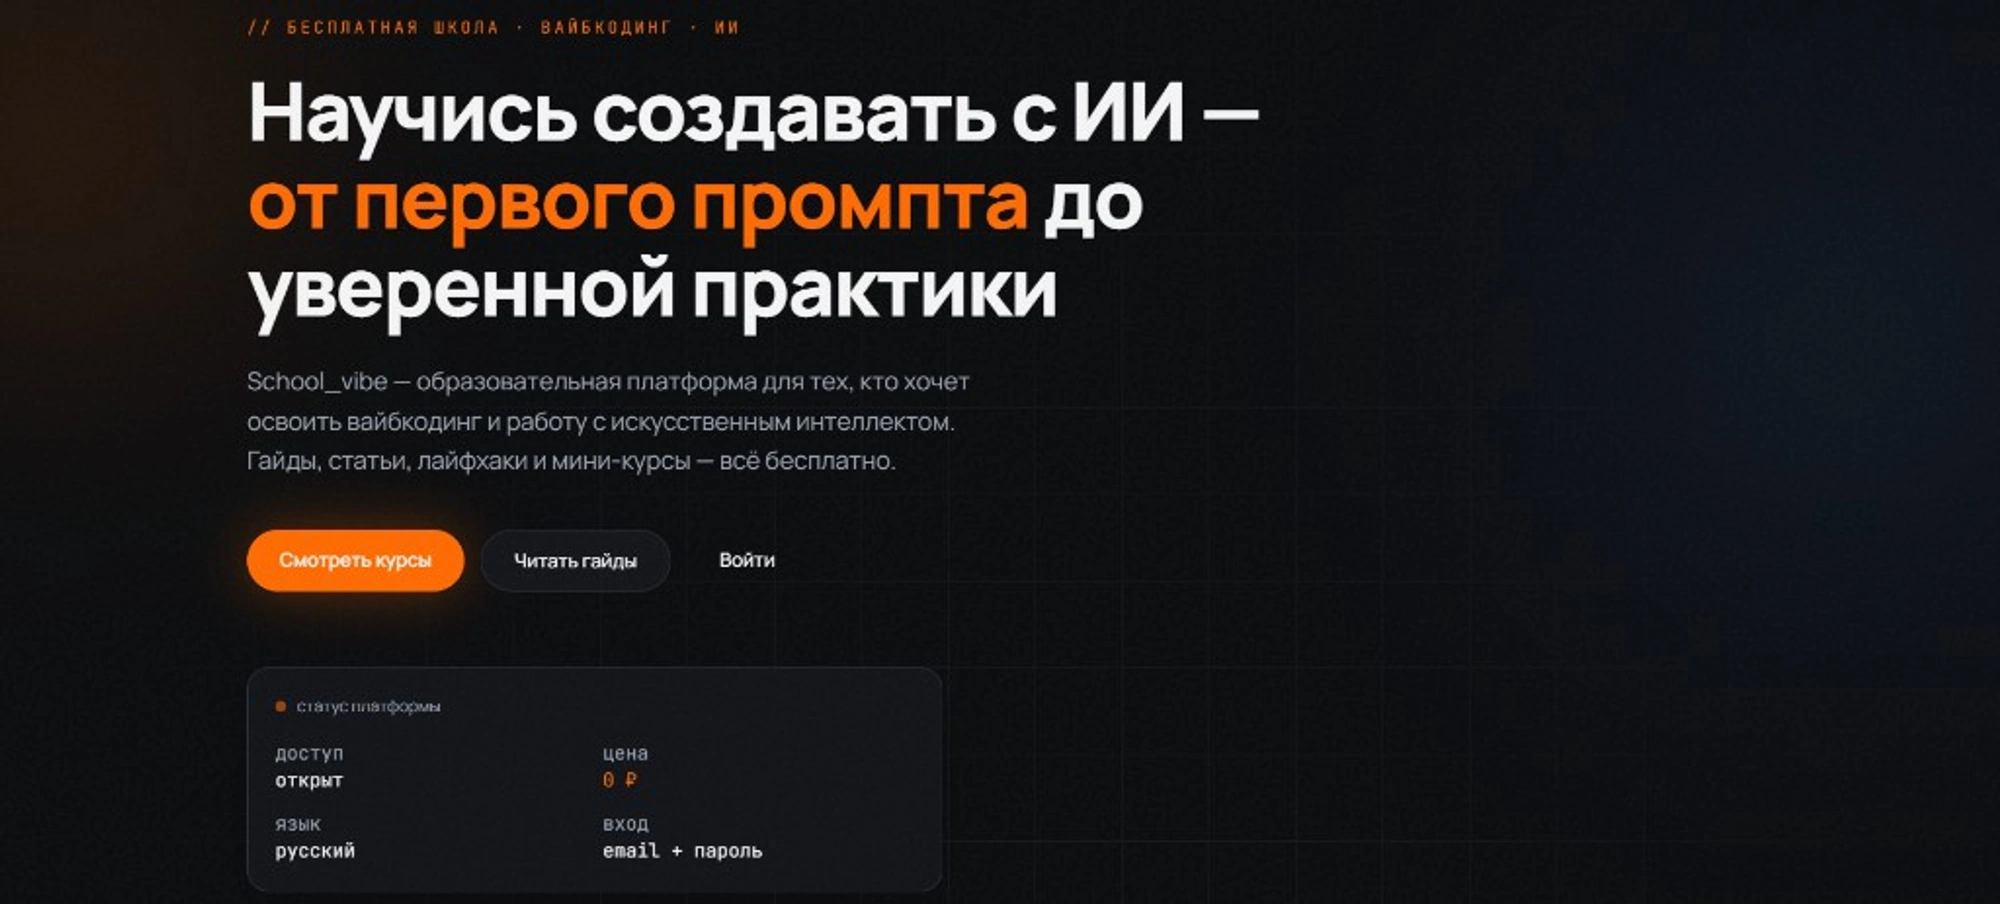
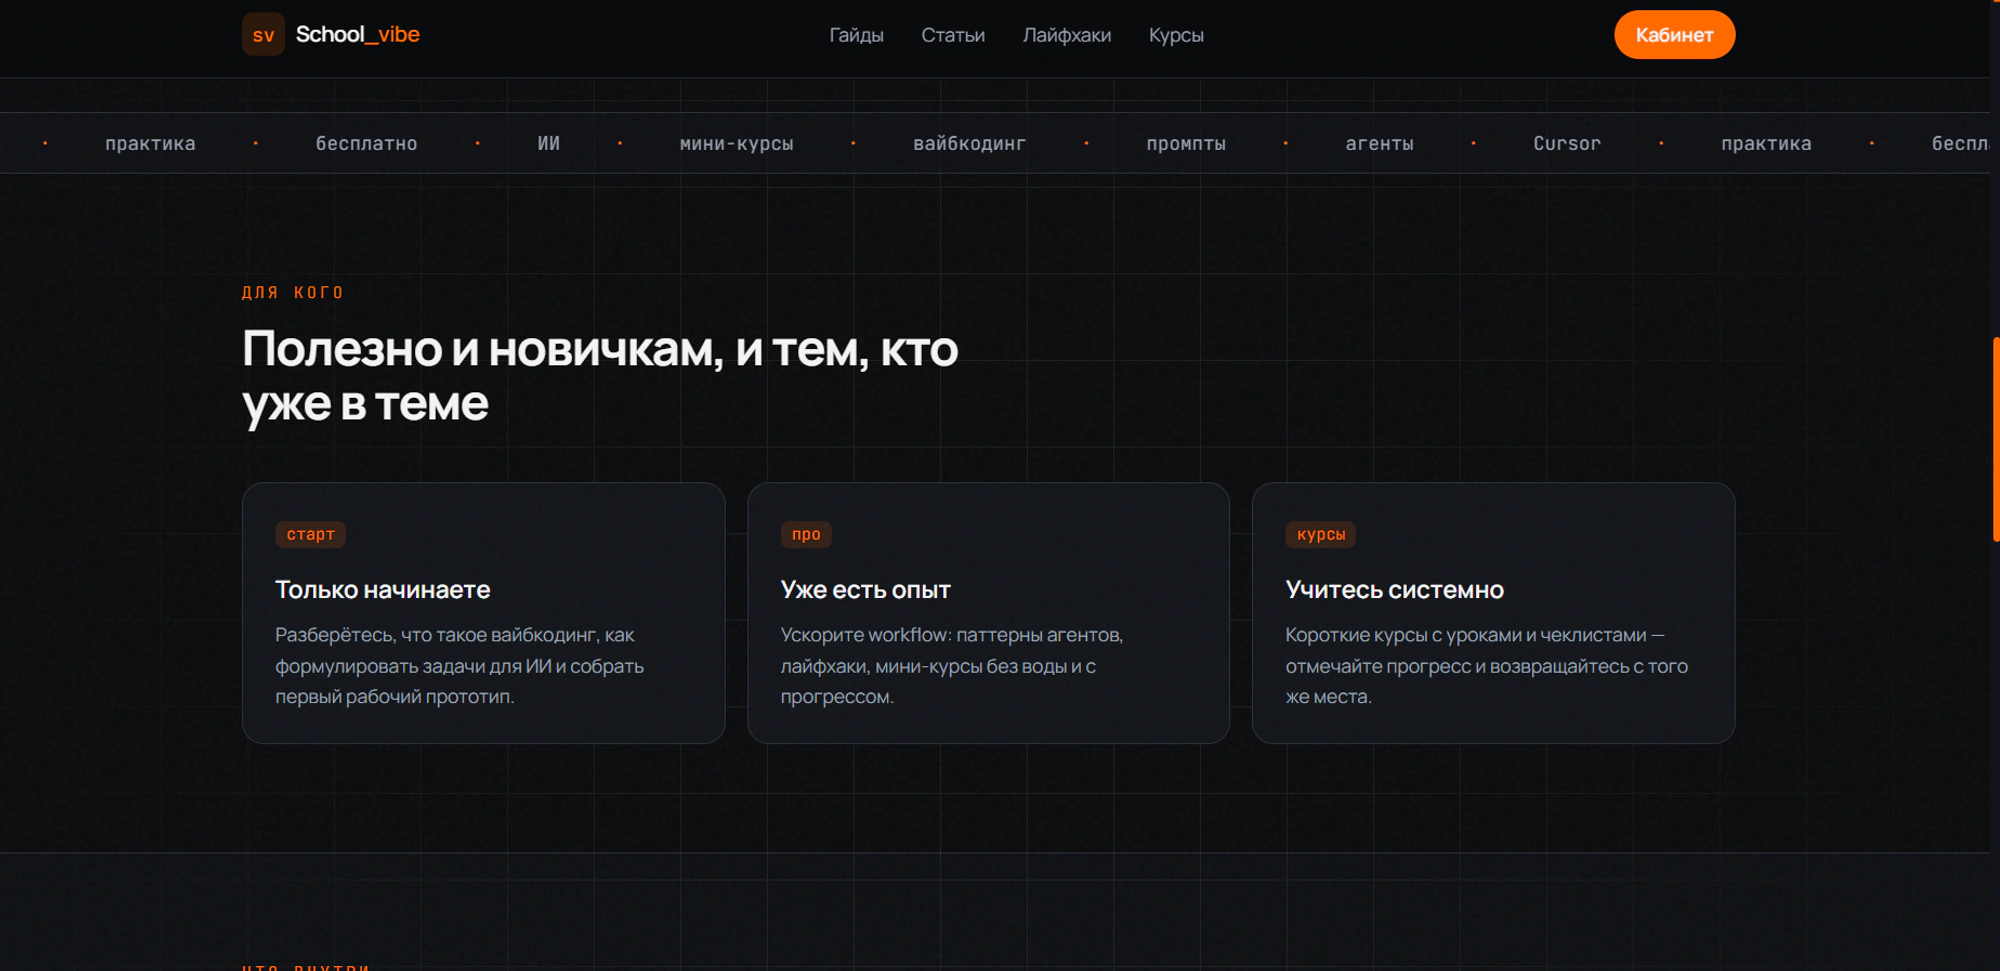
Refresh portfolio screens and add School_vibe live link.
Replace placeholder galleries with real case screens, drop fake mobile shots, and open vibelogic.bond from the AI courses case.

diff --git a/src/content/portfolio.ts b/src/content/portfolio.ts
@@ -25,7 +25,7 @@ export const PORTFOLIO: PortfolioWork[] = [
   {
     slug: "ai-education-platform",
     kind: "commercial",
-    badge: "Коммерческий проект",
+    badge: "Коммерческий проект · Live",
     title: "Платформа курсов по ИИ",
     description:
       "Образовательная платформа для обучения работе с искусственным интеллектом. Полный цикл: структура, дизайн, адаптивная разработка и запуск.",
@@ -41,16 +41,22 @@ export const PORTFOLIO: PortfolioWork[] = [
         height: 904,
       },
       {
-        src: "/works/ai-education-platform/cover.png",
-        alt: "Обзор интерфейса платформы курсов по ИИ",
+        src: "/works/ai-education-platform/desktop-02.webp",
+        alt: "Блок «Для кого» платформы School_vibe",
         width: 2000,
-        height: 904,
+        height: 971,
       },
       {
-        src: "/works/ai-education-platform/mobile-01.webp",
-        alt: "Мобильный вид платформы курсов по ИИ",
-        width: 900,
-        height: 1200,
+        src: "/works/ai-education-platform/desktop-03.webp",
+        alt: "Блок «Как это работает» платформы School_vibe",
+        width: 2000,
+        height: 973,
+      },
+      {
+        src: "/works/ai-education-platform/desktop-04.webp",
+        alt: "Страница модуля курса School_vibe",
+        width: 2000,
+        height: 988,
       },
     ],
     task:
@@ -66,6 +72,8 @@ export const PORTFOLIO: PortfolioWork[] = [
     seoTitle: "Платформа курсов по ИИ — кейс NKT Studio",
     seoDescription:
       "Коммерческий проект: образовательная платформа курсов по ИИ. Полный цикл — структура, дизайн, разработка и запуск за 10 дней.",
+    liveUrl: "https://vibelogic.bond/",
+    liveLabel: "Открыть сайт",
   },
   {
     slug: "sova-cafe",
@@ -76,8 +84,8 @@ export const PORTFOLIO: PortfolioWork[] = [
       "Сайт кафе в парке Мазурино: меню, бронирование стола, пицца из печи и заявки на мероприятия. Можно открыть и пройти сценарий целиком.",
     meta: "HoReCa · лендинг · live",
     cover: "/works/sova-cafe/cover.webp",
-    coverWidth: 1440,
-    coverHeight: 900,
+    coverWidth: 2000,
+    coverHeight: 991,
     gallery: [
       {
         src: "/works/sova-cafe/desktop-01.webp",
@@ -90,12 +98,6 @@ export const PORTFOLIO: PortfolioWork[] = [
         alt: "Блок пиццы из печи на сайте кафе Сова",
         width: 1440,
         height: 900,
-      },
-      {
-        src: "/works/sova-cafe/mobile-01.webp",
-        alt: "Мобильный вид сайта кафе Сова",
-        width: 780,
-        height: 1688,
       },
     ],
     task:
@@ -138,12 +140,6 @@ export const PORTFOLIO: PortfolioWork[] = [
         width: 1440,
         height: 900,
       },
-      {
-        src: "/works/ug-hub/mobile-01.webp",
-        alt: "Мобильный вид сайта UG_HUB",
-        width: 780,
-        height: 1688,
-      },
     ],
     task:
       "Собрать сайт компьютерного клуба, где гость быстро выбирает зону, считает стоимость катки и понимает, что внутри — железо, игры и доп. развлечения.",
@@ -180,16 +176,16 @@ export const PORTFOLIO: PortfolioWork[] = [
         height: 1410,
       },
       {
-        src: "/works/dentline/cover.png",
-        alt: "Обзор интерфейса DentLine",
+        src: "/works/dentline/desktop-02.webp",
+        alt: "Блок стоимости услуг DentLine",
         width: 2000,
-        height: 1410,
+        height: 1326,
       },
       {
-        src: "/works/dentline/mobile-01.webp",
-        alt: "Мобильный вид концепта DentLine",
-        width: 900,
-        height: 1200,
+        src: "/works/dentline/desktop-03.webp",
+        alt: "Блок «Когда необходима имплантация» DentLine",
+        width: 2000,
+        height: 1315,
       },
     ],
     task:
@@ -220,16 +216,22 @@ export const PORTFOLIO: PortfolioWork[] = [
         height: 1372,
       },
       {
-        src: "/works/kvadrat-renovation/cover.png",
-        alt: "Обзор интерфейса Kvadrat",
+        src: "/works/kvadrat-renovation/desktop-02.webp",
+        alt: "Блок услуг Kvadrat — ремонт и дизайн-проект",
         width: 2000,
-        height: 1372,
+        height: 1262,
       },
       {
-        src: "/works/kvadrat-renovation/mobile-01.webp",
-        alt: "Мобильный вид концепта Kvadrat",
-        width: 900,
-        height: 1200,
+        src: "/works/kvadrat-renovation/desktop-03.webp",
+        alt: "Этапы реализации ремонта Kvadrat",
+        width: 2000,
+        height: 1010,
+      },
+      {
+        src: "/works/kvadrat-renovation/desktop-04.webp",
+        alt: "Блок «Почему выбирают нас» Kvadrat",
+        width: 2000,
+        height: 997,
       },
     ],
     task:
@@ -260,16 +262,16 @@ export const PORTFOLIO: PortfolioWork[] = [
         height: 982,
       },
       {
-        src: "/works/vector-logistics/cover.png",
-        alt: "Обзор интерфейса Vector",
+        src: "/works/vector-logistics/desktop-02.webp",
+        alt: "Главный экран Vector с формой быстрого расчёта",
         width: 2000,
-        height: 982,
+        height: 1054,
       },
       {
-        src: "/works/vector-logistics/mobile-01.webp",
-        alt: "Мобильный вид концепта Vector",
-        width: 900,
-        height: 1200,
+        src: "/works/vector-logistics/desktop-03.webp",
+        alt: "Блок услуг Vector — FTL, LTL и проектная логистика",
+        width: 2000,
+        height: 911,
       },
     ],
     task:
